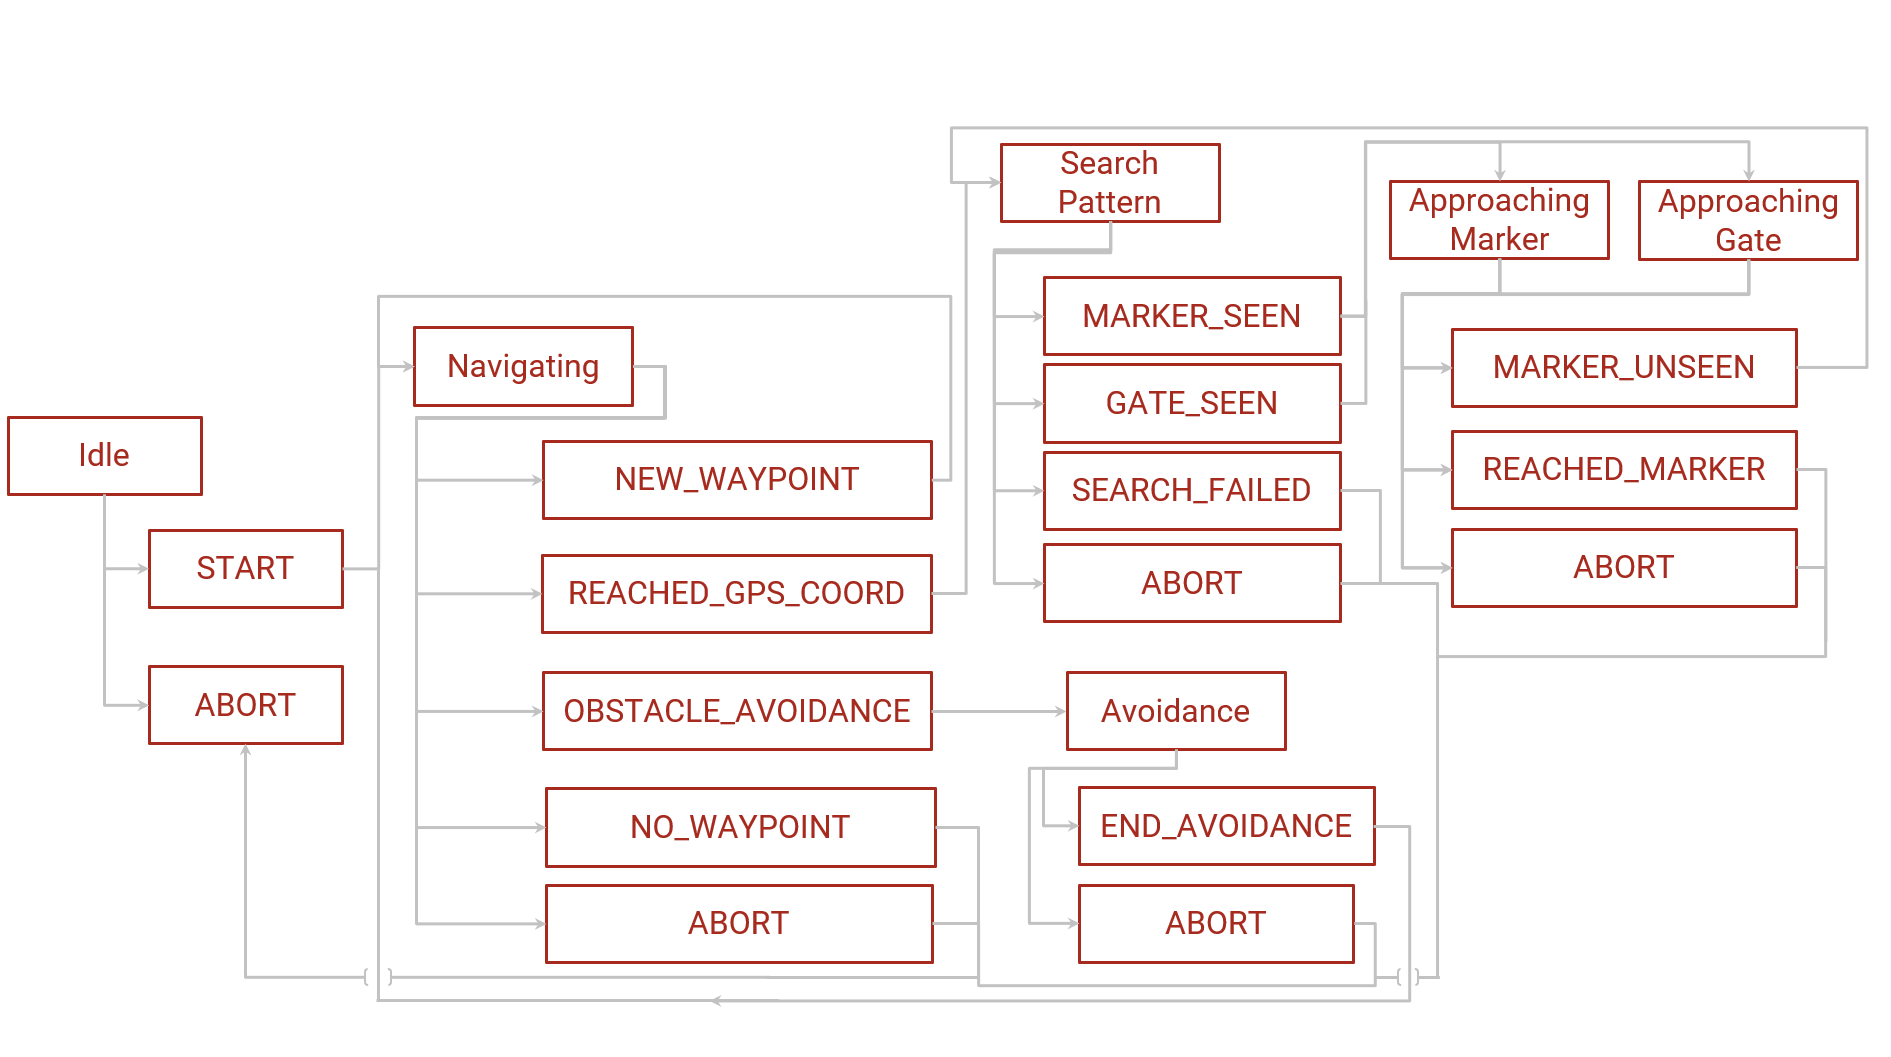
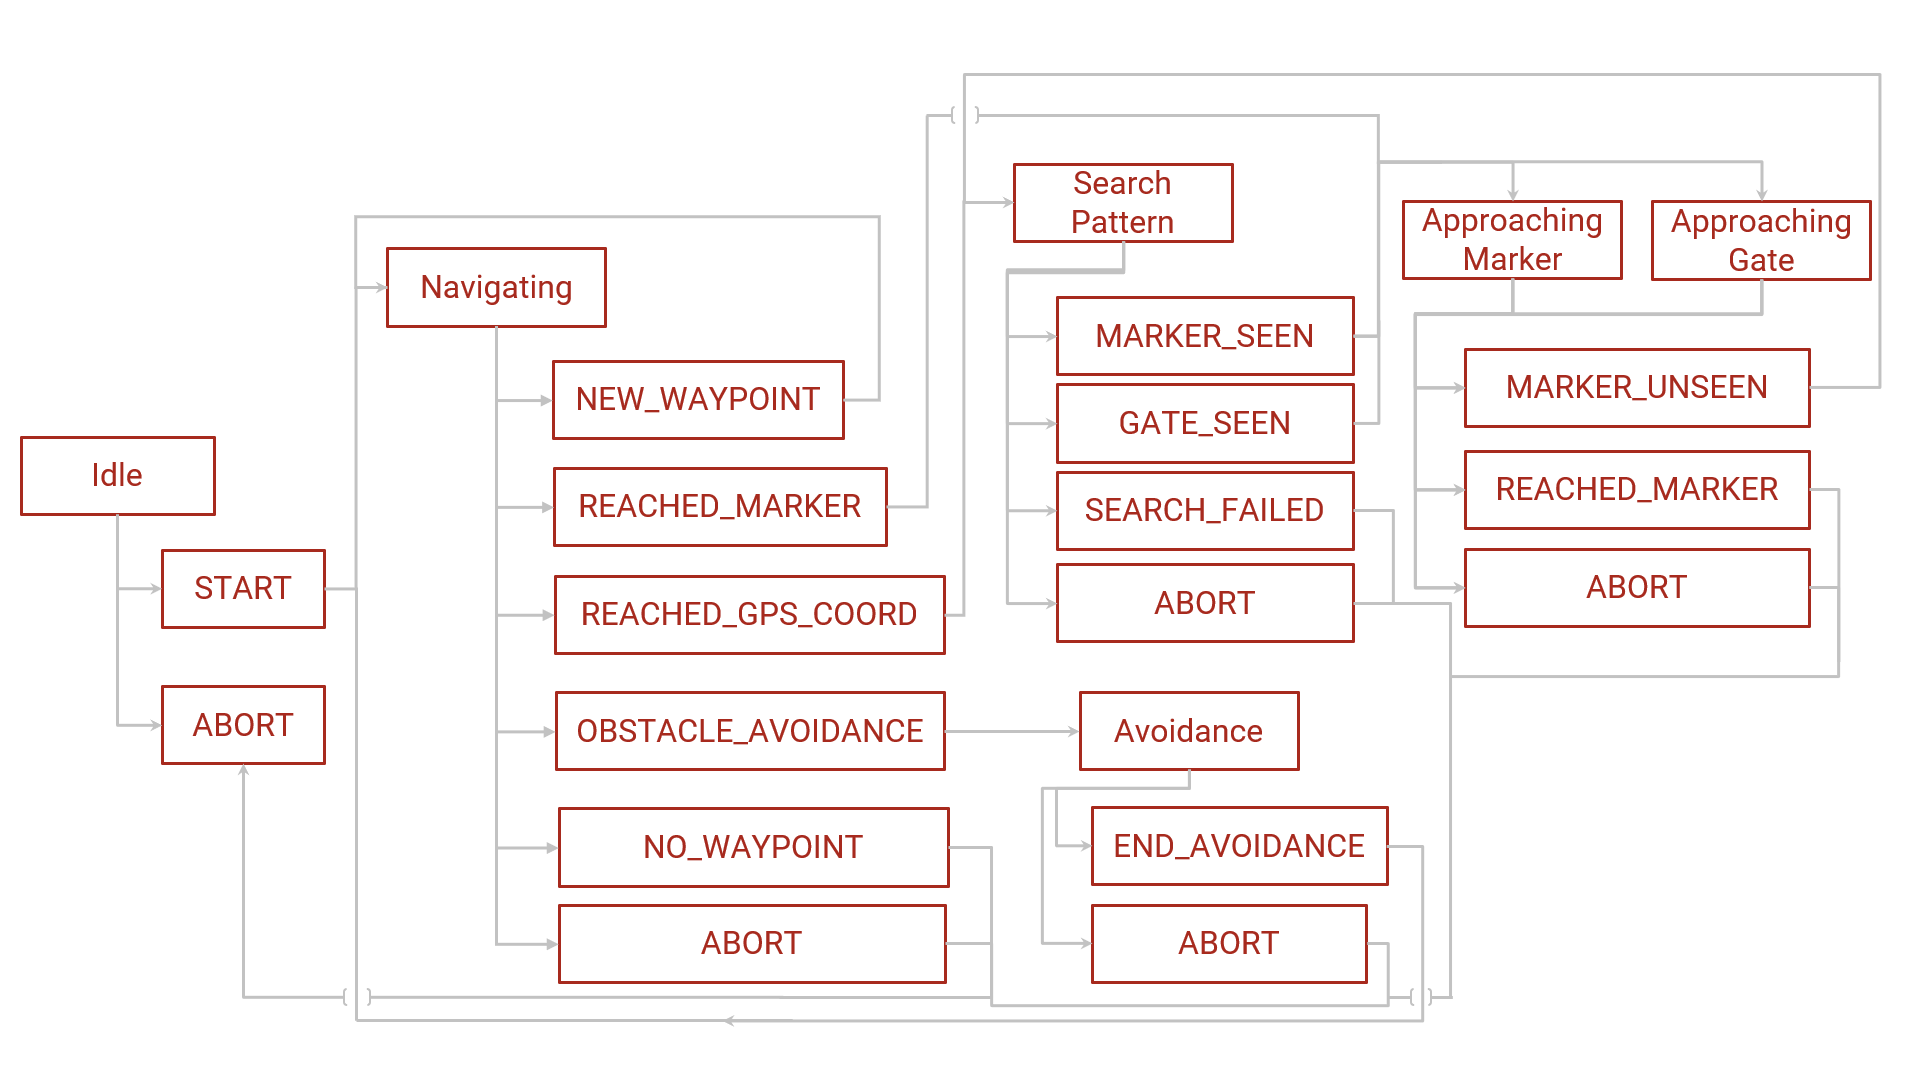
Fix typo and add connection from Navigating to Approaching Gate/Marker

Changed region(s): [[0.0, 0.0624, 0.9984, 0.9678], [0.2184, 0.843, 0.2496, 0.8742]]

diff --git a/README.md b/README.md
@@ -85,7 +85,7 @@ greatly!)
 
 ### Version Control:
 
-Just like development environments there are lots of options for version control, it is recommended that you use on
+Just like development environments there are lots of options for version control, it is recommended that you use one
 listed below.
 
 1. [Github Desktop](https://desktop.github.com/)
